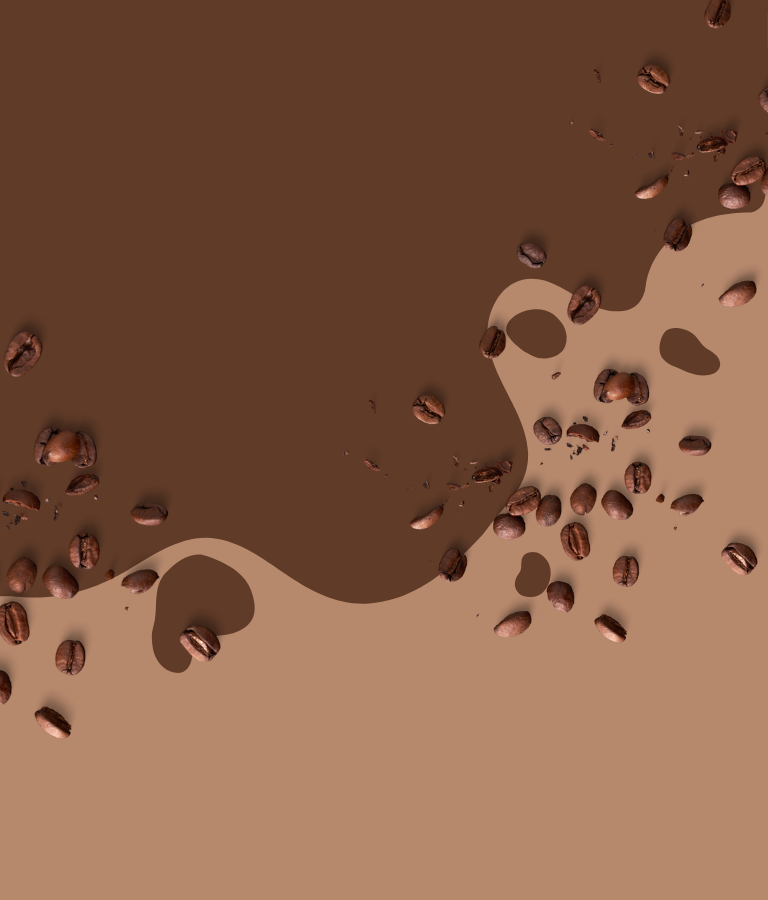
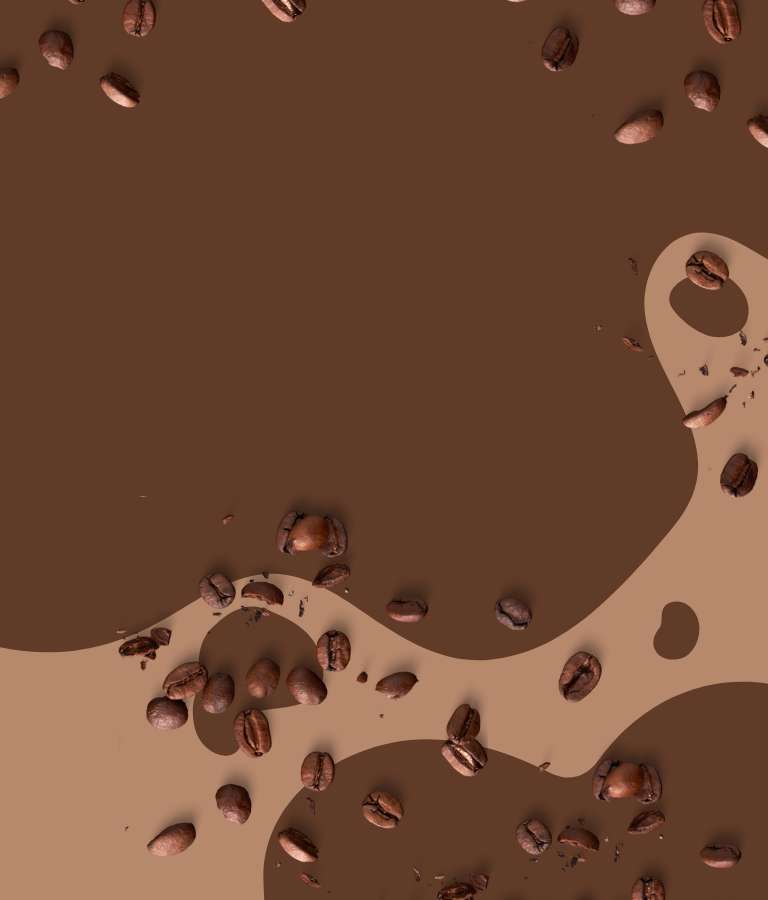
atualização de imagens

diff --git a/style.css b/style.css
@@ -26,7 +26,7 @@ body {
 header {
     width: 100%;
     padding: 20px;
-    margin-bottom: 15px;
+    margin-bottom: 3px;
     background-color: #615149;
 }
 
@@ -92,13 +92,14 @@ main > .home-start-block {
 }
 
 main > .home-start-block > #home-start {
-    background-image: url(imagens/background-cafe4.png);
+    background-image: url(imagens/background-cafe.png);
     background-repeat: no-repeat;
     min-height: 600px;
-    background-repeat: no-repeat;
     background-color: #603b28;
     max-width: 1600px;
     margin: auto;
+    background-attachment: fixed;
+    background-position: center top;
 }
 
 main > .home-start-block > #home-start > p {

diff --git a/media-query.css b/media-query.css
@@ -17,7 +17,7 @@ grandes telas: acima de 1200px
     }
 
     main > .home-start-block > #home-start {
-        background-image: url(imagens/background-cafe_p4.png);
+        background-image: url(imagens/background-cafe_p.png);
         background-attachment: fixed;
     }
 

diff --git a/index.html b/index.html
@@ -7,9 +7,9 @@
 
     <link rel="stylesheet" href="style.css" media="all">
     <link rel="stylesheet" href="media-query.css">
+
 </head>
 <body>
-
     <header>
             <div class="header-block">
                 <div id="logo">
